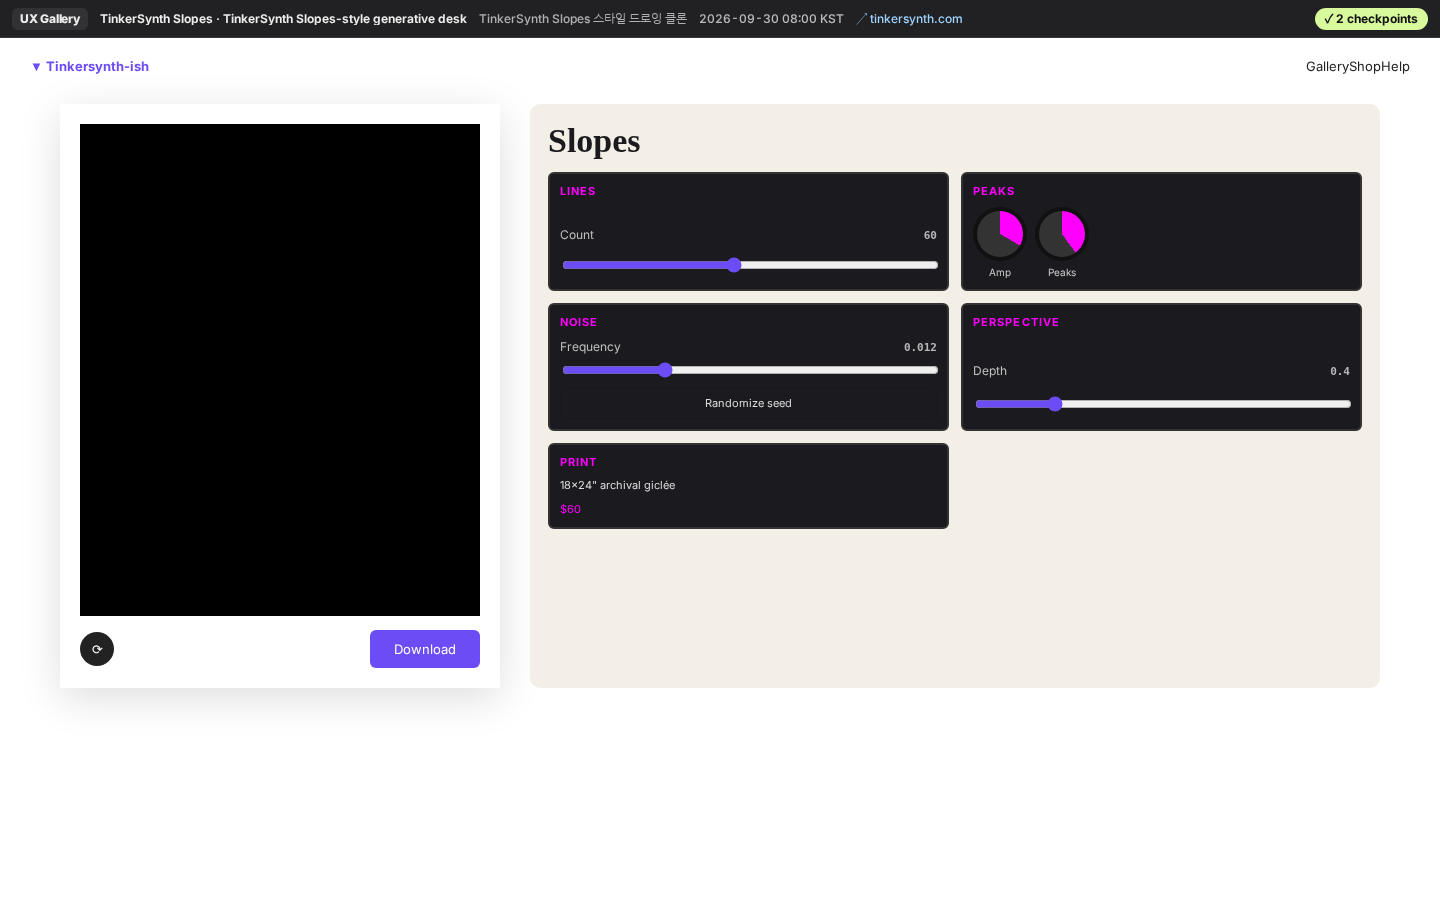
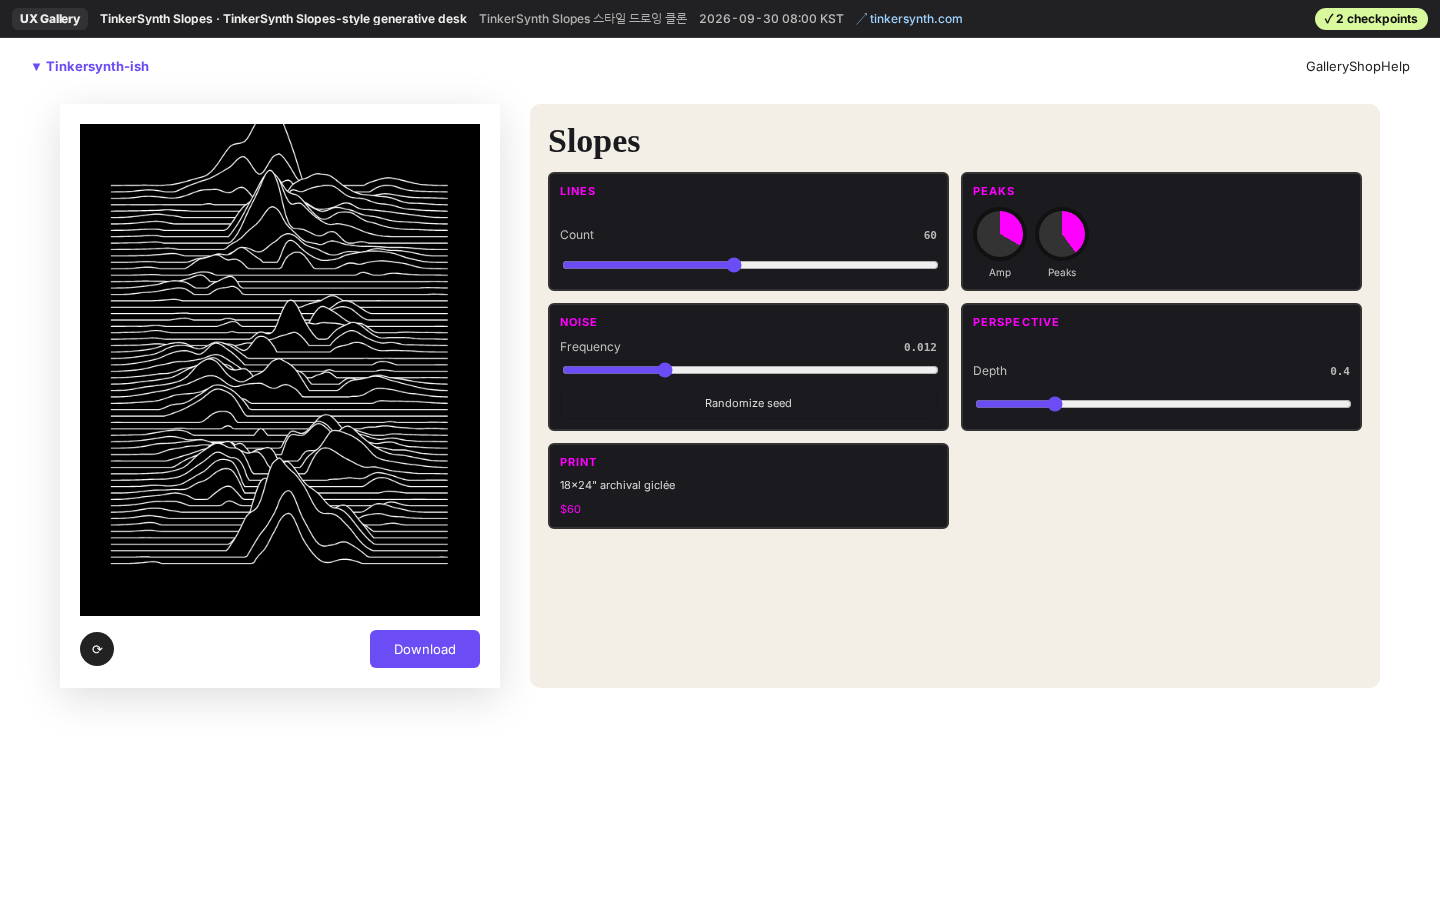
gen/sim/pixel/type engines tuning

Changed region(s): [[0.0625, 0.1556, 0.3125, 0.6222]]

diff --git a/src/engines/gen.js b/src/engines/gen.js
@@ -1,13 +1,14 @@
 import { h, s, drag, localPos, clamp, copy, toast, sleep, rng, pick, noise2, fitCanvas } from '../lib.js';
 import { theme, slider, seg, select, btn, panel, toggle } from '../kit.js';
 import { glCanvas } from './sim.js';
+const nz = noise2(11); const sn = (x, y) => (nz(x, y) - 0.5) * 2.2;
 const V = {};
 const dl = (cv, n) => { const a = h('a', { download: n, href: cv.toDataURL() }); a.click(); };
 V['tinkersynth-slopes-synth-desk'] = (root, T) => {
   theme(root, T, { bg: '#fff', fg: '#222', ac: '#6c4cf5', dark: false });
   const P = { lines: 60, amp: 40, freq: 0.012, seed: 3, peaks: 0.6, perspective: 0.4, split: false };
   const cv = h('canvas', { width: 520, height: 640, style: { width: '400px', height: '492px', background: '#000' } });
-  const draw = () => { const g = cv.getContext('2d'); g.fillStyle = '#000'; g.fillRect(0, 0, 520, 640); g.strokeStyle = '#fff'; g.lineWidth = 1.4; for (let i = 0; i < P.lines; i++) { const y0 = 80 + (i / P.lines) * 500; g.beginPath(); let first = true; for (let x = 40; x <= 480; x += 3) { const cx = Math.abs(x - 260) / 220; const env = Math.pow(1 - cx, 2) * P.peaks * 2; const n = noise2(x * P.freq + P.seed * 10, i * 0.25 + P.seed) ; const y = y0 - Math.max(0, n) * P.amp * env * (1 + i * P.perspective / P.lines); if (first) { g.moveTo(x, y); first = false; } else g.lineTo(x, y); } g.save(); g.fillStyle = '#000'; g.lineTo(480, 640); g.lineTo(40, 640); g.closePath(); g.fill(); g.restore(); g.beginPath(); first = true; for (let x = 40; x <= 480; x += 3) { const cx = Math.abs(x - 260) / 220; const env = Math.pow(1 - cx, 2) * P.peaks * 2; const n = noise2(x * P.freq + P.seed * 10, i * 0.25 + P.seed); const y = y0 - Math.max(0, n) * P.amp * env * (1 + i * P.perspective / P.lines); if (first) { g.moveTo(x, y); first = false; } else g.lineTo(x, y); } g.stroke(); } };
+  const draw = () => { const g = cv.getContext('2d'); g.fillStyle = '#000'; g.fillRect(0, 0, 520, 640); g.strokeStyle = '#fff'; g.lineWidth = 1.4; for (let i = 0; i < P.lines; i++) { const y0 = 80 + (i / P.lines) * 500; g.beginPath(); let first = true; for (let x = 40; x <= 480; x += 3) { const cx = Math.abs(x - 260) / 220; const env = Math.pow(1 - cx, 2) * P.peaks * 2; const n = sn(x * P.freq + P.seed * 10, i * 0.25 + P.seed) ; const y = y0 - Math.max(0, n) * P.amp * env * (1 + i * P.perspective / P.lines); if (first) { g.moveTo(x, y); first = false; } else g.lineTo(x, y); } g.save(); g.fillStyle = '#000'; g.lineTo(480, 640); g.lineTo(40, 640); g.closePath(); g.fill(); g.restore(); g.beginPath(); first = true; for (let x = 40; x <= 480; x += 3) { const cx = Math.abs(x - 260) / 220; const env = Math.pow(1 - cx, 2) * P.peaks * 2; const n = sn(x * P.freq + P.seed * 10, i * 0.25 + P.seed); const y = y0 - Math.max(0, n) * P.amp * env * (1 + i * P.perspective / P.lines); if (first) { g.moveTo(x, y); first = false; } else g.lineTo(x, y); } g.stroke(); } };
   const knob = (lab, k, mn, mx) => { const el = h('div', { style: { width: '54px', height: '54px', borderRadius: '50%', background: 'conic-gradient(#f0f 0 ' + ((P[k] - mn) / (mx - mn)) * 100 + '%,#333 0)', border: '4px solid #111', cursor: 'ns-resize' } }); let y0, v0; drag(el, { start: (e) => { y0 = e.clientY; v0 = P[k]; }, move: (e) => { P[k] = clamp(v0 + ((y0 - e.clientY) / 150) * (mx - mn), mn, mx); el.style.background = 'conic-gradient(#f0f 0 ' + ((P[k] - mn) / (mx - mn)) * 100 + '%,#333 0)'; draw(); } }); return h('div', { style: { display: 'grid', justifyItems: 'center', gap: '4px', fontSize: '10px', color: '#ccc' } }, el, lab); };
   const mod = (t, ...k) => h('div', { style: { background: '#1b1b1f', border: '2px solid #333', borderRadius: '6px', padding: '10px', display: 'grid', gap: '8px', color: '#ddd', fontSize: '11px' } }, h('b', { style: { color: '#f0f', letterSpacing: '.1em' } }, t), ...k);
   root.append(h('div.k-row', { style: { height: '56px', padding: '0 30px' } }, h('b', { style: { color: '#6c4cf5' } }, '▼ Tinkersynth-ish'), h('span', { style: { flex: 1 } }), 'Gallery', 'Shop', 'Help'), h('div', { style: { display: 'flex', gap: '30px', padding: '10px 60px' } }, h('div', { style: { background: '#fff', padding: '20px', boxShadow: '0 10px 40px #0002', display: 'grid', gap: '14px' } }, cv, h('div.k-row', {}, h('span', { style: { background: '#222', color: '#fff', borderRadius: '50%', width: '34px', height: '34px', display: 'grid', placeItems: 'center' } }, '⟳'), h('span', { style: { flex: 1 } }), h('button', { style: { background: '#6c4cf5', color: '#fff', border: 0, padding: '10px 24px', borderRadius: '6px' }, onclick: () => dl(cv, 'slopes.png') }, 'Download'))), h('div', { style: { flex: 1, background: '#f3efe6', borderRadius: '10px', padding: '18px', display: 'grid', gridTemplateColumns: '1fr 1fr', gap: '12px', alignContent: 'start' } }, h('div', { style: { gridColumn: '1/-1', font: '900 34px Georgia', color: '#1b1b1f' } }, 'Slopes'), mod('LINES', slider('Count', 10, 120, P.lines, 1, (v) => { P.lines = v; draw(); })), mod('PEAKS', h('div.k-row', {}, knob('Amp', 'amp', 0, 120), knob('Peaks', 'peaks', 0, 1.5))), mod('NOISE', slider('Frequency', 0.002, 0.04, P.freq, 0.001, (v) => { P.freq = v; draw(); }), btn('Randomize seed', () => { P.seed = Math.random() * 100; draw(); })), mod('PERSPECTIVE', slider('Depth', 0, 2, P.perspective, 0.05, (v) => { P.perspective = v; draw(); })), mod('PRINT', h('div', {}, '18×24" archival giclée'), h('div', { style: { color: '#f0f' } }, '$60')))));
@@ -16,9 +17,9 @@ V['tinkersynth-slopes-synth-desk'] = (root, T) => {
 };
 V['ritmo-simplex-wave-studio'] = (root, T) => {
   theme(root, T, { bg: '#ececec', fg: '#222', panel: '#fff', ac: '#1e90ff', dark: false });
-  const P = { freq: 1.6, amp: 0.35, stripes: 12, angle: 35, t: 0, anim: true, cols: ['#2b1d3a', '#fff', '#8e5cc4', '#f4a340'] };
+  const P = { freq: 1.6, amp: 0.35, stripes: 12, angle: 35, t: 0, anim: true, cols: ['#2b1d3a', '#ffffff', '#8e5cc4', '#f4a340'] };
   const cv = h('canvas', { width: 560, height: 560, style: { boxShadow: '0 8px 30px #0002' } });
-  const draw = () => { const g = cv.getContext('2d'); const img = g.createImageData(560, 560); const a = (P.angle * Math.PI) / 180, ca = Math.cos(a), sa = Math.sin(a); const cc = P.cols.map((c) => [1, 3, 5].map((i) => parseInt(c.slice(i, i + 2), 16))); for (let y = 0; y < 560; y += 2) for (let x = 0; x < 560; x += 2) { const u = (x * ca + y * sa) / 560, v = (-x * sa + y * ca) / 560; const w = u + noise2(v * P.freq * 3 + P.t, P.t * 0.3) * P.amp; const k = ((Math.floor(w * P.stripes) % 4) + 4) % 4; const c = cc[k]; for (const [dx, dy] of [[0, 0], [1, 0], [0, 1], [1, 1]]) { const i = ((y + dy) * 560 + x + dx) * 4; img.data[i] = c[0]; img.data[i + 1] = c[1]; img.data[i + 2] = c[2]; img.data[i + 3] = 255; } } g.putImageData(img, 0, 0); };
+  const draw = () => { const g = cv.getContext('2d'); const img = g.createImageData(560, 560); const a = (P.angle * Math.PI) / 180, ca = Math.cos(a), sa = Math.sin(a); const cc = P.cols.map((c) => [1, 3, 5].map((i) => parseInt(c.slice(i, i + 2), 16))); for (let y = 0; y < 560; y += 2) for (let x = 0; x < 560; x += 2) { const u = (x * ca + y * sa) / 560, v = (-x * sa + y * ca) / 560; const w = u + sn(v * P.freq * 3 + P.t, P.t * 0.3) * P.amp; const k = ((Math.floor(w * P.stripes) % 4) + 4) % 4; const c = cc[k]; for (const [dx, dy] of [[0, 0], [1, 0], [0, 1], [1, 1]]) { const i = ((y + dy) * 560 + x + dx) * 4; img.data[i] = c[0]; img.data[i + 1] = c[1]; img.data[i + 2] = c[2]; img.data[i + 3] = 255; } } g.putImageData(img, 0, 0); };
   const loop = () => { if (P.anim) { P.t += 0.01; draw(); } requestAnimationFrame(loop); };
   const sect = (t, ...k) => h('div', { style: { borderTop: '1px solid #eee', padding: '8px 0', display: 'grid', gap: '6px' } }, h('div', { style: { fontSize: '11px', fontWeight: 700 } }, '▾ ' + t), ...k);
   root.append(h('div.k-row', { style: { position: 'absolute', top: '10px', left: '50%', transform: 'translateX(-50%)', background: '#fff', borderRadius: '8px', padding: '4px', boxShadow: '0 1px 4px #0001' } }, seg(['Simplex', 'Waves', 'Grid', 'Truchet'], 'Simplex', () => {}), h('button', { style: { background: '#1e90ff', color: '#fff', border: 0, padding: '6px 14px', borderRadius: '6px' }, onclick: () => dl(cv, 'ritmo.png') }, 'Export')), h('div', { style: { position: 'absolute', left: 0, right: '300px', top: '60px', bottom: '60px', display: 'grid', placeItems: 'center' } }, cv), h('div', { style: { position: 'absolute', right: '20px', top: '20px', width: '260px', bottom: '20px', background: '#fff', borderRadius: '8px', padding: '12px', fontSize: '12px', overflow: 'auto' } }, sect('Canvas', select(['1:1 · 2400px', '4:5', '16:9'], '1:1 · 2400px', () => {})), sect('Noise', slider('Frequency', 0.2, 4, P.freq, 0.05, (v) => (P.freq = v)), slider('Amplitude', 0, 1, P.amp, 0.01, (v) => (P.amp = v))), sect('Stripes', slider('Count', 4, 40, P.stripes, 1, (v) => (P.stripes = v)), slider('Angle', 0, 180, P.angle, 1, (v) => (P.angle = v))), sect('Colors', h('div.k-row', {}, P.cols.map((c, i) => h('input', { type: 'color', value: c, oninput: (e) => (P.cols[i] = e.target.value), style: { width: '40px', height: '26px', border: 0 } })))), sect('Animation', toggle('Animate', true, (v) => (P.anim = v))), h('button', { style: { width: '100%', background: '#1e90ff', color: '#fff', border: 0, padding: '8px', borderRadius: '6px', marginTop: '8px' }, onclick: () => dl(cv, 'ritmo.png') }, 'Download PNG')), h('div.k-row', { style: { position: 'absolute', bottom: '16px', left: 'calc(50% - 150px)', transform: 'translateX(-50%)', fontSize: '11px' } }, '◀', '❚❚', '▶', 'loop 4s'));
@@ -48,7 +49,7 @@ V['city-roads-lineart-explorer'] = (root, T) => {
 };
 V['pattern-symmetry-playground'] = (root, T) => {
   theme(root, T, { bg: '#111', fg: '#ddd', panel: '#1b1b1b', ac: '#fff', acfg: '#000', dark: true });
-  const P = { count: 36, curve: 2.2, width: 3, sym: 'none', invert: false };
+  const P = { count: 26, curve: 1.8, width: 7, sym: 'none', invert: false };
   const svg = s('svg', { viewBox: '0 0 700 400', width: 700, height: 400, style: 'background:#000' });
   const draw = () => { const els = [s('rect', { width: 700, height: 400, fill: P.invert ? '#fff' : '#000' })]; for (let i = 0; i < P.count; i++) { let t = i / P.count; t = Math.pow(t, 1 / P.curve); let x = t * 520; const add = (x) => els.push(s('rect', { x, y: 0, width: P.width, height: 400, fill: P.invert ? '#000' : '#fff' })); add(x); if (P.sym === 'mirror') add(700 - x - P.width); if (P.sym === 'radial') add(350 + (x - 260) * -1); } svg.replaceChildren(...els); };
   const row = (l, c) => h('div', { style: { display: 'grid', gridTemplateColumns: '1fr 110px', alignItems: 'center', fontSize: '12px', padding: '4px 0' } }, l, c);
@@ -81,7 +82,7 @@ V['procedural-dungeon-theme-stage'] = (root, T) => {
 V['fantasy-map-generator-workspace'] = (root, T) => {
   theme(root, T, { bg: '#6b8fc2', fg: '#222', panel: '#f5efe0', ac: '#7a4a1e', dark: false });
   const W = 360, H = 225; const cv = h('canvas', { width: W * 4, height: H * 4, style: { position: 'absolute', inset: 0, width: '100%', height: '100%' } }); let seed = 5, nStates = 9, showLabels = true;
-  const gen = () => { const R = rng(seed); const hgt = new Float32Array(W * H); for (let y = 0; y < H; y++) for (let x = 0; x < W; x++) { const dx = (x / W - 0.5) * 2, dy = (y / H - 0.5) * 2; const n = noise2(x * 0.015 + seed, y * 0.015) * 0.6 + noise2(x * 0.05 + seed, y * 0.05) * 0.25 + noise2(x * 0.12, y * 0.12 + seed) * 0.1; hgt[y * W + x] = n + 0.45 - Math.hypot(dx * 0.9, dy) * 0.55; } const seeds = []; for (let tries = 0; seeds.length < nStates && tries < 5000; tries++) { const x = (R() * W) | 0, y = (R() * H) | 0; if (hgt[y * W + x] > 0.1) seeds.push({ x, y }); } const PAL = ['#f5e4a6', '#cfe3b2', '#e8c1d6', '#c7d3ef', '#f3c7a1', '#d6e8c9', '#e3d0f2', '#f7d6c1', '#c9e7e3', '#efe2b8', '#d8c9e8', '#f2b8b8']; const g = cv.getContext('2d'); const img = g.createImageData(W, H); const st = new Int8Array(W * H).fill(-1); for (let i = 0; i < W * H; i++) { const x = i % W, y = (i / W) | 0; const hh = hgt[i]; let c; if (hh <= 0) { const d = clamp(-hh * 6, 0, 1); c = [120 - d * 30, 160 - d * 40, 210 - d * 20]; if (hh > -0.04) c = [190, 215, 235]; } else { let bi = 0, bd = 1e9; seeds.forEach((sd, k) => { const d = (sd.x - x) ** 2 + (sd.y - y) ** 2; if (d < bd) { bd = d; bi = k; } }); st[i] = bi; const p = PAL[bi % PAL.length]; c = [1, 3, 5].map((k) => parseInt(p.slice(k, k + 2), 16) - hh * 40); } img.data[i * 4] = c[0]; img.data[i * 4 + 1] = c[1]; img.data[i * 4 + 2] = c[2]; img.data[i * 4 + 3] = 255; } for (let i = W; i < W * H - W; i++) if (st[i] >= 0 && (st[i] !== st[i + 1] || st[i] !== st[i + W]) && st[i + 1] >= 0 && st[i + W] >= 0) { img.data[i * 4] -= 60; img.data[i * 4 + 1] -= 60; img.data[i * 4 + 2] -= 40; } const t = document.createElement('canvas'); t.width = W; t.height = H; t.getContext('2d').putImageData(img, 0, 0); g.imageSmoothingEnabled = true; g.drawImage(t, 0, 0, W * 4, H * 4); g.strokeStyle = '#5a4a3a'; g.lineWidth = 1.5; for (let i = W; i < W * H - W; i++) { if (hgt[i] > 0 && (hgt[i + 1] <= 0 || hgt[i + W] <= 0 || hgt[i - 1] <= 0)) { g.fillStyle = '#4a3b2c'; g.fillRect((i % W) * 4, ((i / W) | 0) * 4, 3, 3); } } if (showLabels) { const NAMES = ['Republic of Etoile', 'Kingdom of Tanar', 'Monch', 'Zeldan Caliphate', 'Orlesia', 'Grand Duchy of Vell', 'Empire of Sorn', 'Harmar', 'Coast League', 'Isle Kha', 'Bretonia', 'Marsh Union']; g.textAlign = 'center'; seeds.forEach((sd, k) => { g.font = `600 ${k % 3 ? 26 : 34}px 'Fraunces Variable',Georgia,serif`; g.fillStyle = '#3a2a1a'; g.strokeStyle = '#fff8'; g.lineWidth = 4; const [a, ...b] = NAMES[k % NAMES.length].split(' of '); g.strokeText(a, sd.x * 4, sd.y * 4); g.fillText(a, sd.x * 4, sd.y * 4); }); } };
+  const gen = () => { const R = rng(seed); const hgt = new Float32Array(W * H); for (let y = 0; y < H; y++) for (let x = 0; x < W; x++) { const dx = (x / W - 0.5) * 2, dy = (y / H - 0.5) * 2; const n = sn(x * 0.015 + seed, y * 0.015) * 0.6 + sn(x * 0.05 + seed, y * 0.05) * 0.25 + sn(x * 0.12, y * 0.12 + seed) * 0.1; hgt[y * W + x] = n + 0.12 - Math.hypot(dx * 0.85, dy) * 0.62; } const seeds = []; for (let tries = 0; seeds.length < nStates && tries < 5000; tries++) { const x = (R() * W) | 0, y = (R() * H) | 0; if (hgt[y * W + x] > 0.1) seeds.push({ x, y }); } const PAL = ['#f5e4a6', '#cfe3b2', '#e8c1d6', '#c7d3ef', '#f3c7a1', '#d6e8c9', '#e3d0f2', '#f7d6c1', '#c9e7e3', '#efe2b8', '#d8c9e8', '#f2b8b8']; const g = cv.getContext('2d'); const img = g.createImageData(W, H); const st = new Int8Array(W * H).fill(-1); for (let i = 0; i < W * H; i++) { const x = i % W, y = (i / W) | 0; const hh = hgt[i]; let c; if (hh <= 0) { const d = clamp(-hh * 6, 0, 1); c = [120 - d * 30, 160 - d * 40, 210 - d * 20]; if (hh > -0.04) c = [190, 215, 235]; } else { let bi = 0, bd = 1e9; seeds.forEach((sd, k) => { const d = (sd.x - x) ** 2 + (sd.y - y) ** 2; if (d < bd) { bd = d; bi = k; } }); st[i] = bi; const p = PAL[bi % PAL.length]; c = [1, 3, 5].map((k) => parseInt(p.slice(k, k + 2), 16) - hh * 40); } img.data[i * 4] = c[0]; img.data[i * 4 + 1] = c[1]; img.data[i * 4 + 2] = c[2]; img.data[i * 4 + 3] = 255; } for (let i = W; i < W * H - W; i++) if (st[i] >= 0 && (st[i] !== st[i + 1] || st[i] !== st[i + W]) && st[i + 1] >= 0 && st[i + W] >= 0) { img.data[i * 4] -= 60; img.data[i * 4 + 1] -= 60; img.data[i * 4 + 2] -= 40; } const t = document.createElement('canvas'); t.width = W; t.height = H; t.getContext('2d').putImageData(img, 0, 0); g.imageSmoothingEnabled = true; g.drawImage(t, 0, 0, W * 4, H * 4); g.strokeStyle = '#5a4a3a'; g.lineWidth = 1.5; for (let i = W; i < W * H - W; i++) { if (hgt[i] > 0 && (hgt[i + 1] <= 0 || hgt[i + W] <= 0 || hgt[i - 1] <= 0)) { g.fillStyle = '#4a3b2c'; g.fillRect((i % W) * 4, ((i / W) | 0) * 4, 3, 3); } } if (showLabels) { const NAMES = ['Republic of Etoile', 'Kingdom of Tanar', 'Monch', 'Zeldan Caliphate', 'Orlesia', 'Grand Duchy of Vell', 'Empire of Sorn', 'Harmar', 'Coast League', 'Isle Kha', 'Bretonia', 'Marsh Union']; g.textAlign = 'center'; seeds.forEach((sd, k) => { g.font = `600 ${k % 3 ? 20 : 26}px 'Fraunces Variable',Georgia,serif`; g.fillStyle = '#3a2a1a'; g.strokeStyle = '#fff8'; g.lineWidth = 4; const [a, ...b] = NAMES[k % NAMES.length].split(' of '); g.strokeText(a, sd.x * 4, sd.y * 4); g.fillText(a, sd.x * 4, sd.y * 4); }); } };
   root.append(cv, h('div', { style: { position: 'absolute', right: '12px', bottom: '12px', display: 'grid', gap: '4px' } }, ...[['⟳', () => { seed++; gen(); }], ['🏷', () => { showLabels = !showLabels; gen(); }], ['＋', () => { nStates = Math.min(12, nStates + 1); gen(); }], ['－', () => { nStates = Math.max(3, nStates - 1); gen(); }]].map(([l, f]) => h('button', { style: { width: '34px', height: '34px', background: '#f5efe0', border: '1px solid #7a4a1e', borderRadius: '4px' }, onclick: f }, l))), h('div', { style: { position: 'absolute', left: '12px', top: '12px', background: '#f5efe0ee', border: '1px solid #7a4a1e', padding: '8px 10px', fontSize: '12px', display: 'grid', gap: '6px', width: '190px' } }, h('b', {}, '☰ Fantasy Map-ish'), h('div.k-row', { style: { flexWrap: 'wrap', gap: '4px' } }, ...['Layers', 'Style', 'Options', 'Tools', 'About'].map((t) => h('span', { style: { border: '1px solid #b89', padding: '1px 4px' } }, t))), slider('States', 3, 12, nStates, 1, (v) => { nStates = v; gen(); }), btn('New map', () => { seed++; gen(); }, 'pri')));
   gen();
   window.__demoProof = async () => { seed = 6; gen(); return 'generated heightmap + 9 political states'; };
